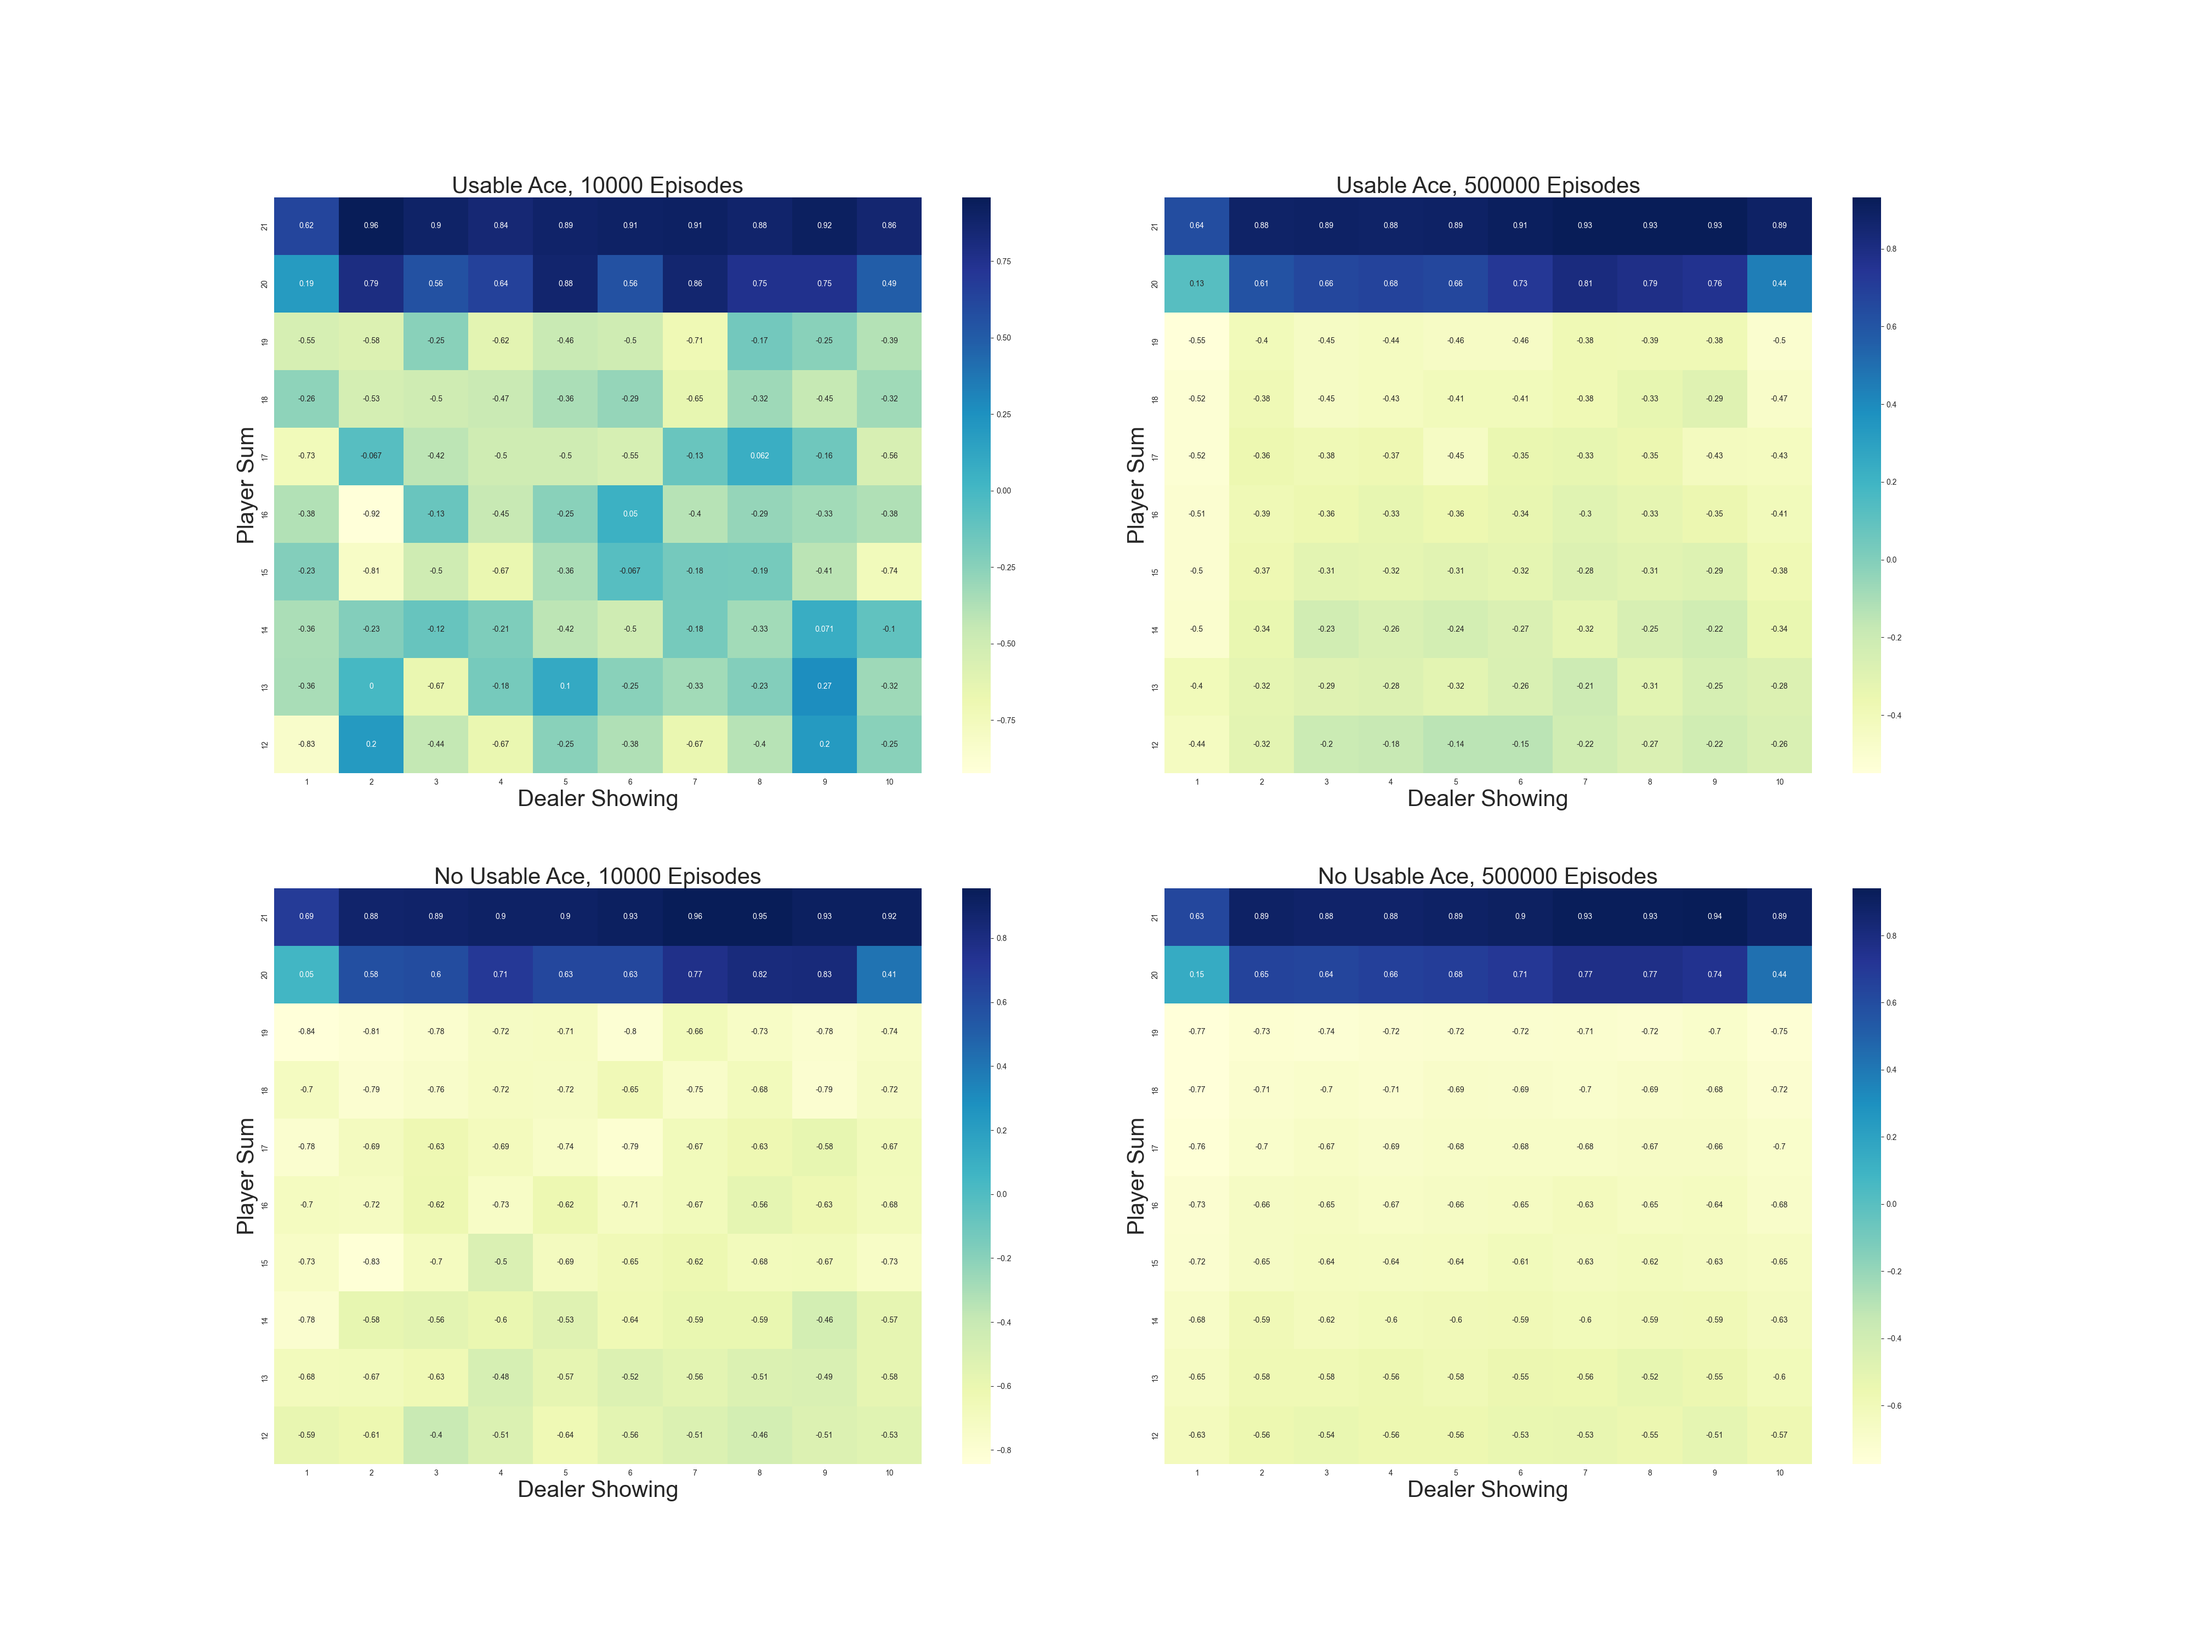
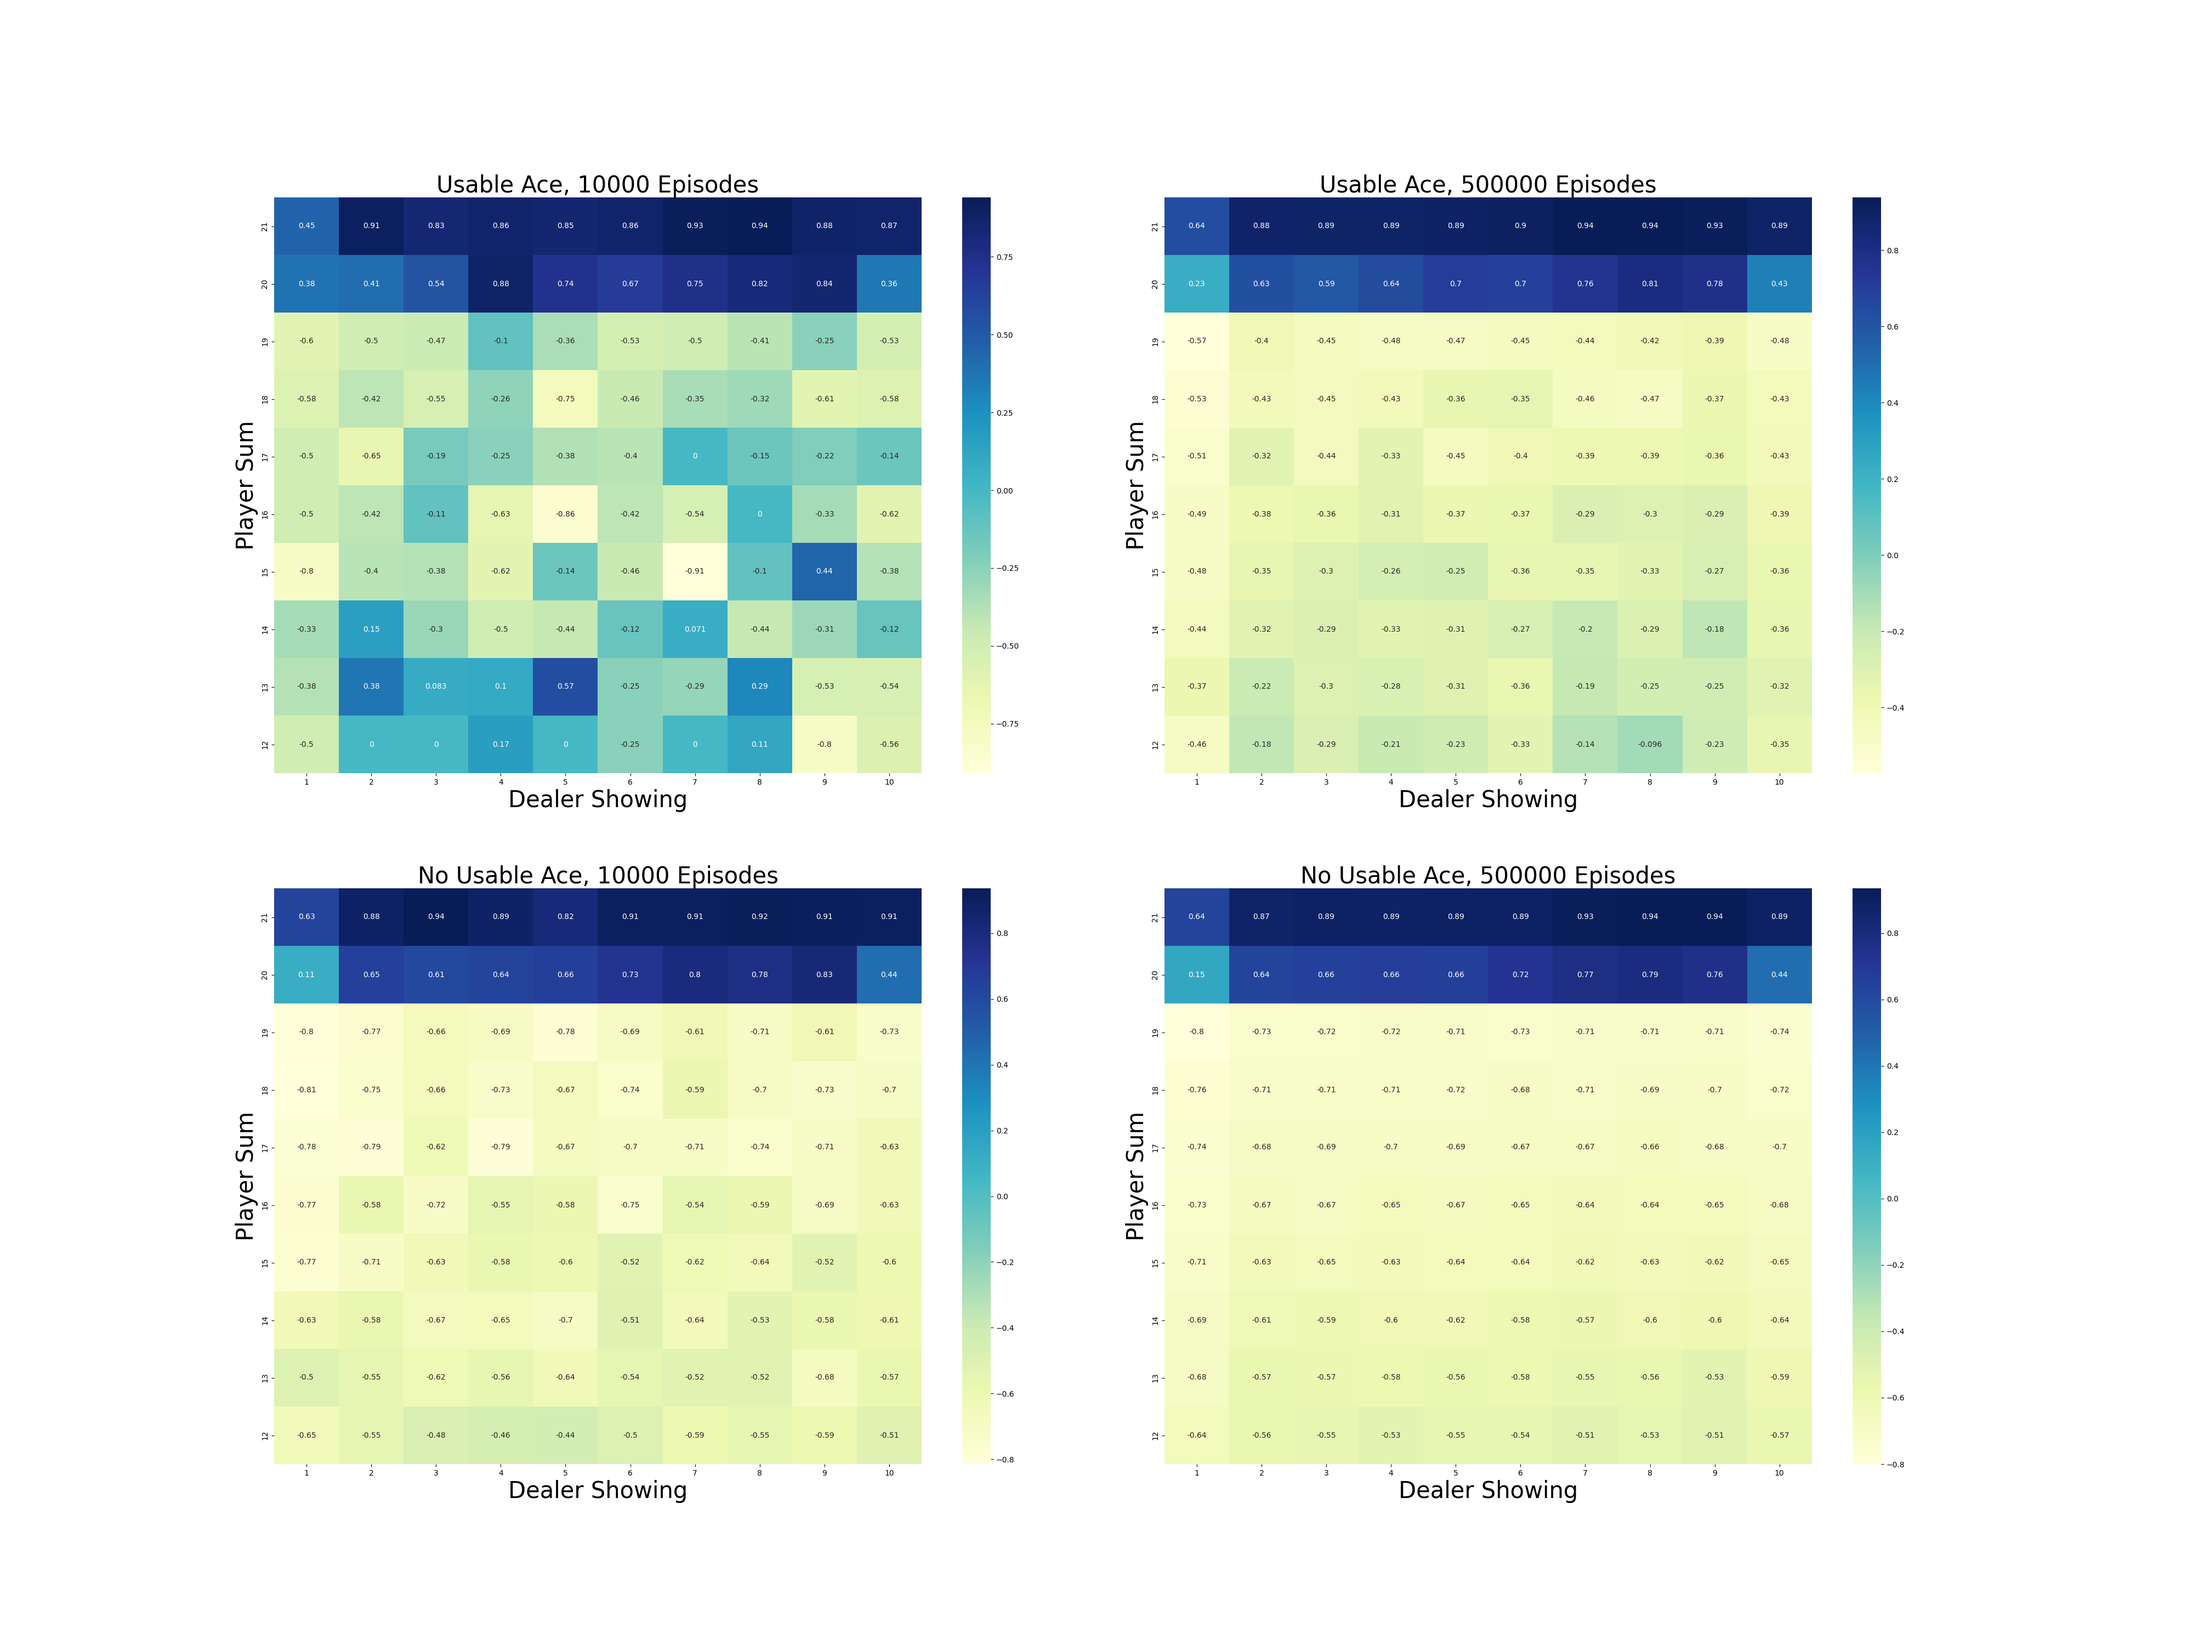
-Monte Carlo modified

diff --git a/blackjack/src/black_jack.py b/blackjack/src/black_jack.py
@@ -474,6 +474,46 @@ def monte_carlo_off_policy(episodes):
 
     # region Body
 
+    initial_state = [True, 13, 2]
+
+    importance_sampling_rations = []
+
+    returns = []
+
+    for i in range(episodes):
+        _, reward, player_trajectory = play(behavior_off_policy_player, initial_state = initial_state)
+
+        numerator = 1.0
+        denominator = 1.0
+
+        for (usable_ace, player_sum, dealer_card), action in player_trajectory:
+            if action == target_policy_player(usable_ace, player_sum, dealer_card):
+                denominator *= 0.5
+            else:
+                numerator = 0.0
+                break
+
+        importance_sampling_rations.append(numerator / denominator)
+
+        returns.append(reward)
+
+    importance_sampling_rations = np.asarray(importance_sampling_rations)
+
+    returns = np.asarray(returns)
+
+    weighted_returns = importance_sampling_rations * returns
+
+    weighted_returns = np.add.accumulate(weighted_returns)
+
+    importance_sampling_rations = np.add.accumulate(importance_sampling_rations)
+
+    ordinary_estimates = weighted_returns / np.arange(1, episodes + 1)
+
+    with np.errstate(divide = 'ignore', invalid = 'ignore'):
+        weighted_estimates = np.where(importance_sampling_rations != 0,
+                                      weighted_returns / importance_sampling_rations, 0)
+
+    return ordinary_estimates, weighted_estimates
 
 
     # endregion Body
